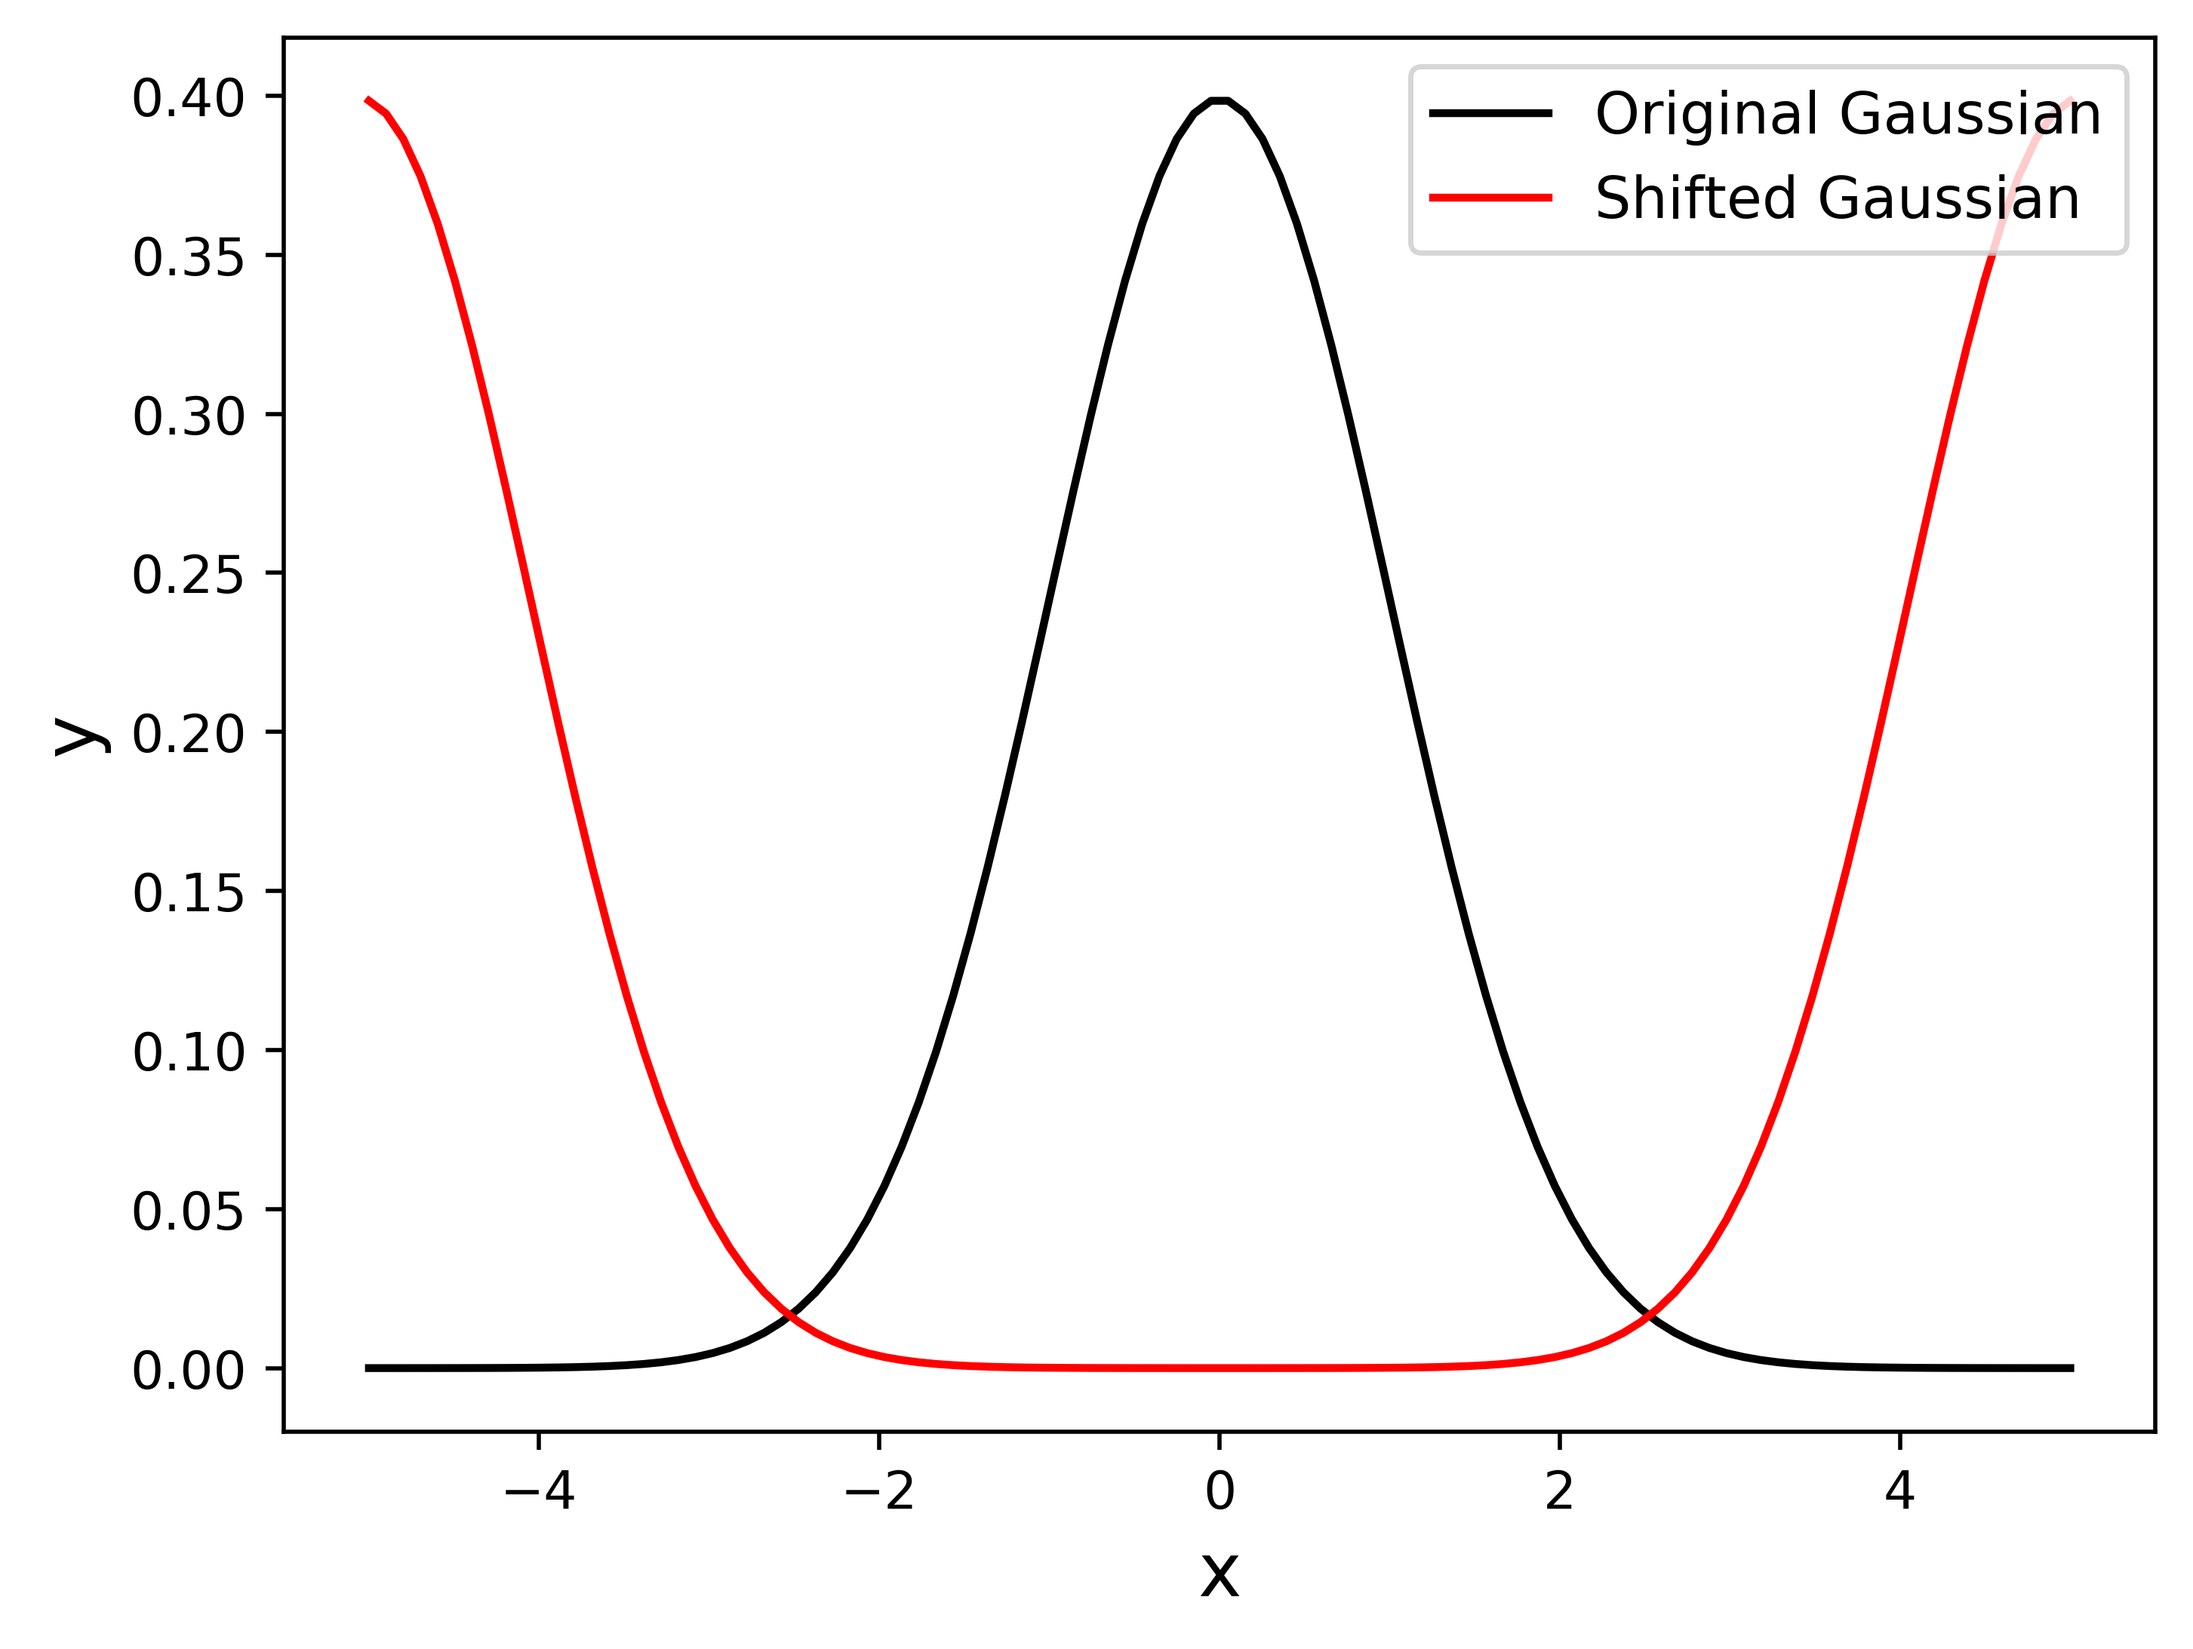
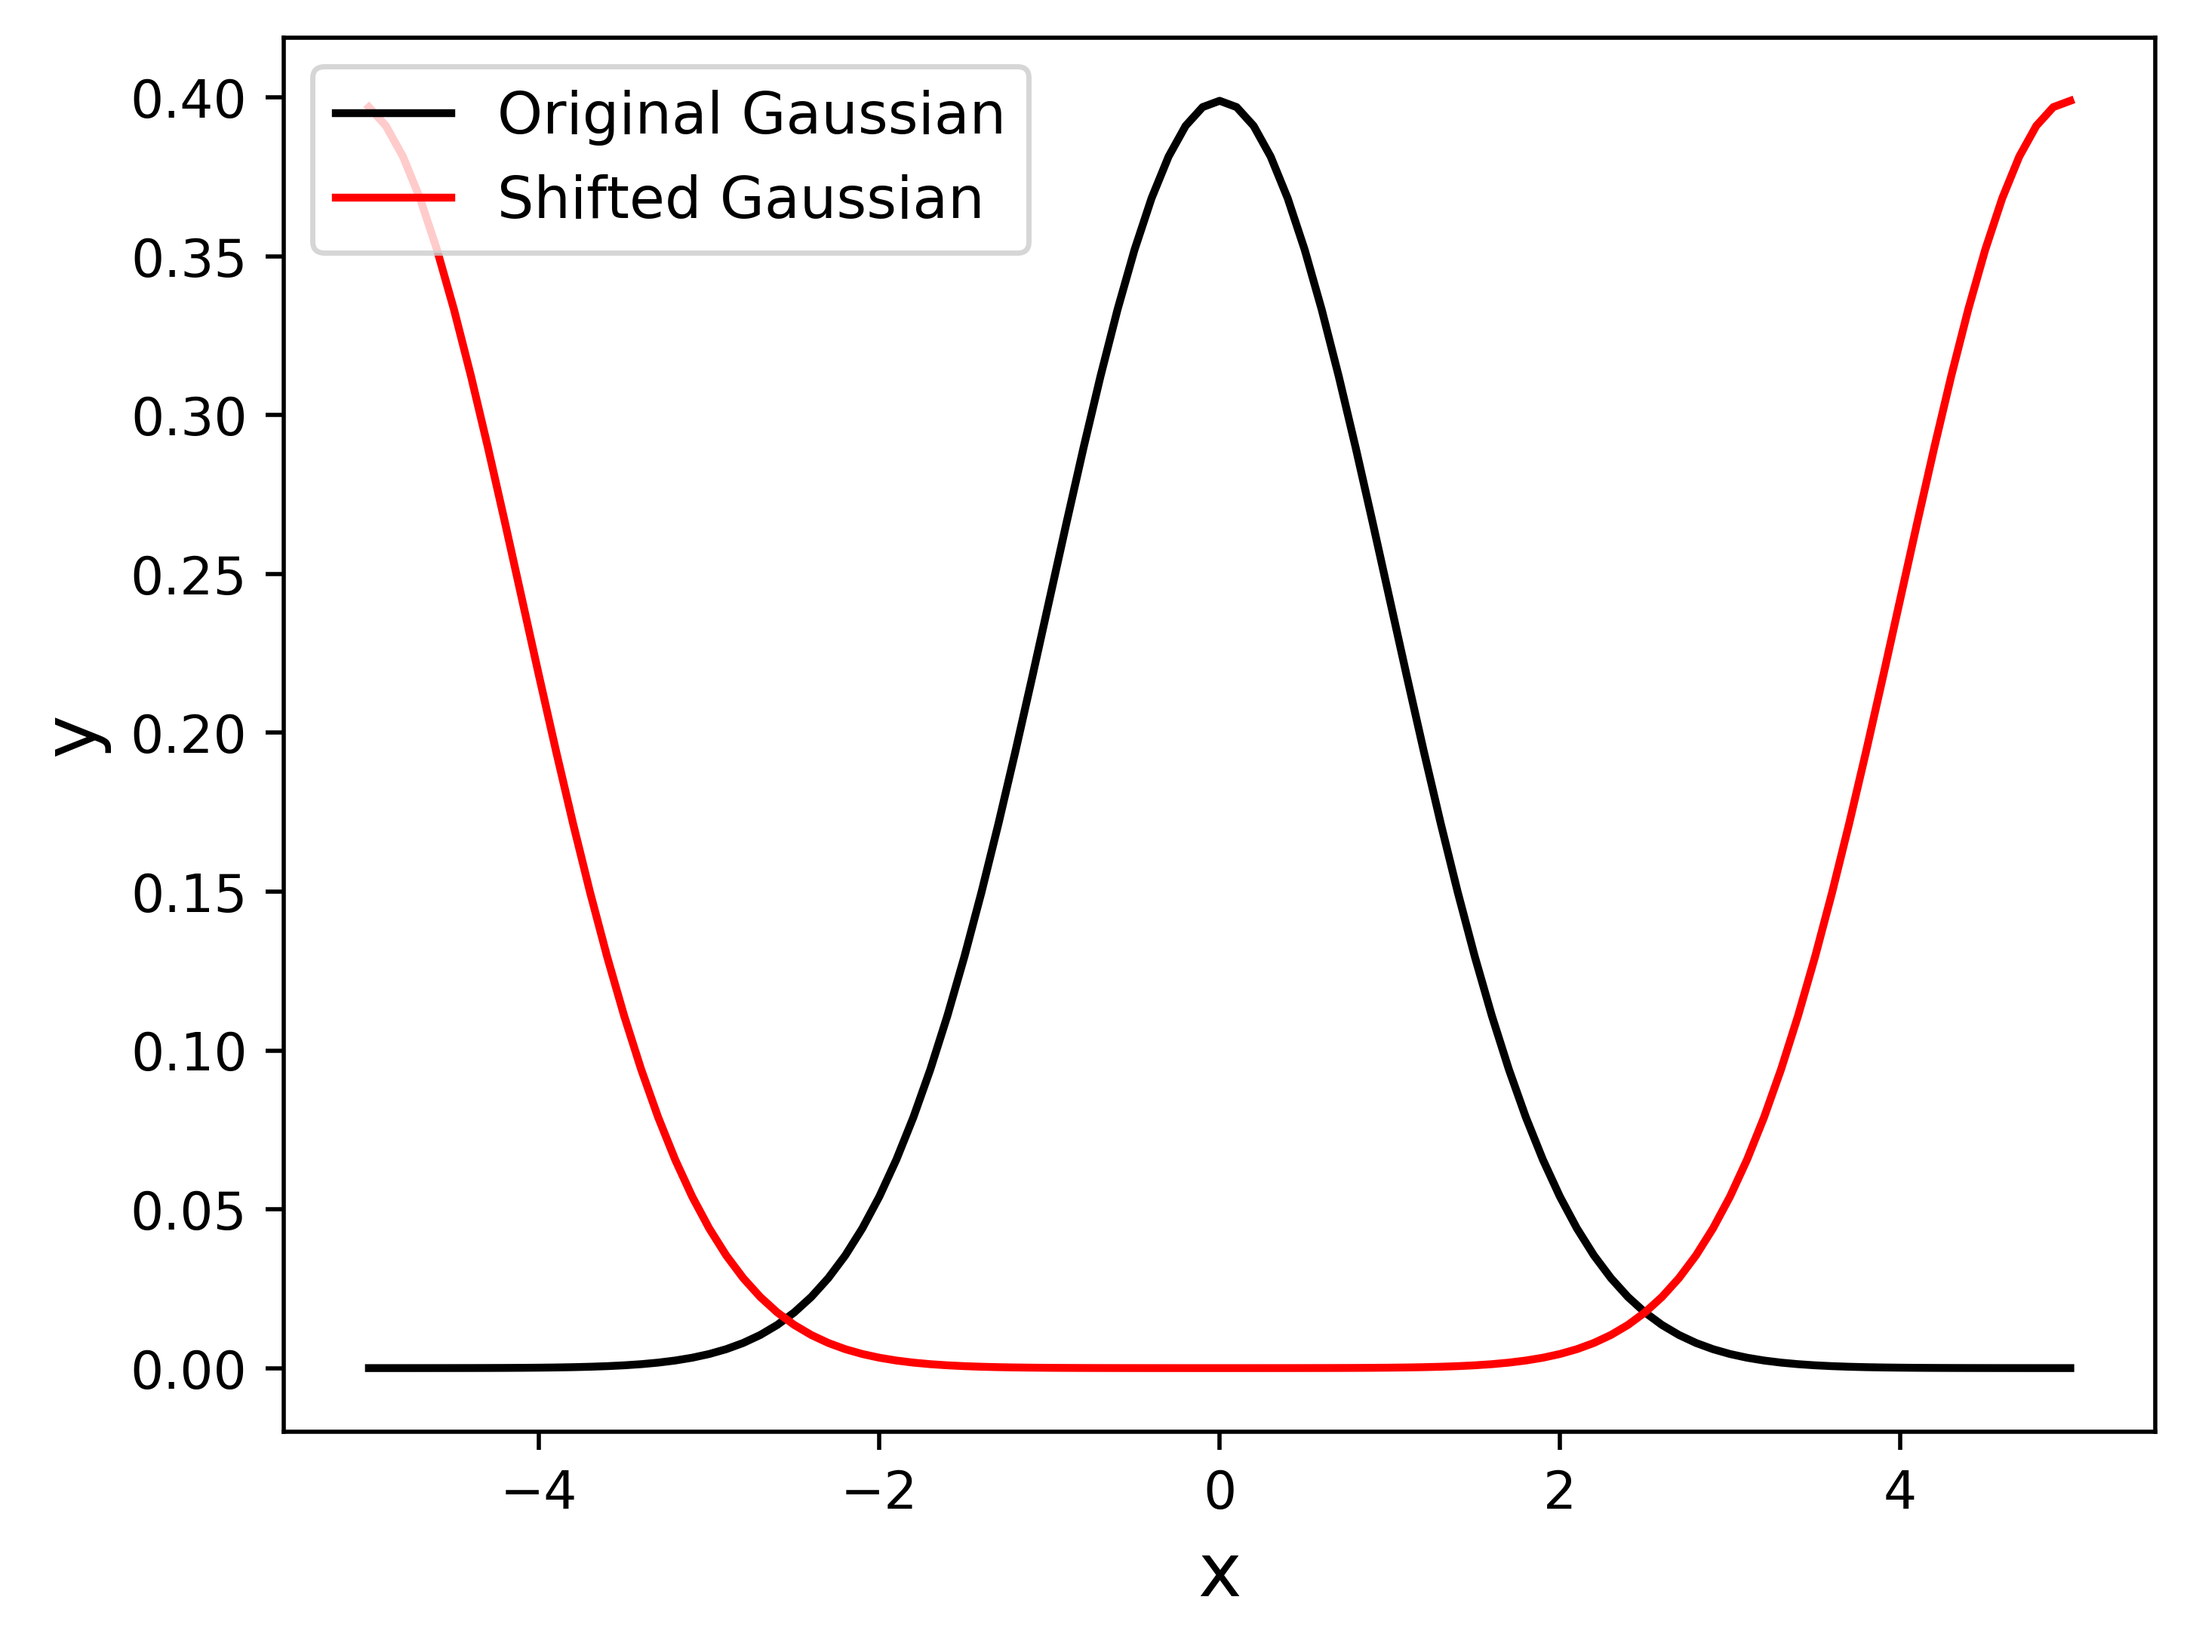
update

diff --git a/assignment4/problem_3.py b/assignment4/problem_3.py
@@ -18,8 +18,8 @@ plt.plot(x,corshift(y,len(y)/8),label=r"$\frac{1}{8}$")
 plt.plot(x,corshift(y,len(y)/6),label=r"$\frac{1}{6}$")
 plt.plot(x,corshift(y,len(y)/4),label=r"$\frac{1}{4}$")
 plt.plot(x,corshift(y,len(y)/2),label=r"$\frac{1}{2}$")
-plt.ylabel("Correlation Function",fontsize=14)
+plt.ylabel("Correlation Function",fontsize=14,labelpad=10)
 plt.xlabel("x",fontsize=14)
-plt.legend(fontsize=14)
+plt.legend(fontsize=14,loc=2)
 plt.savefig("problem_3.png",bbox_inches="tight",dpi=500)
 plt.show()
